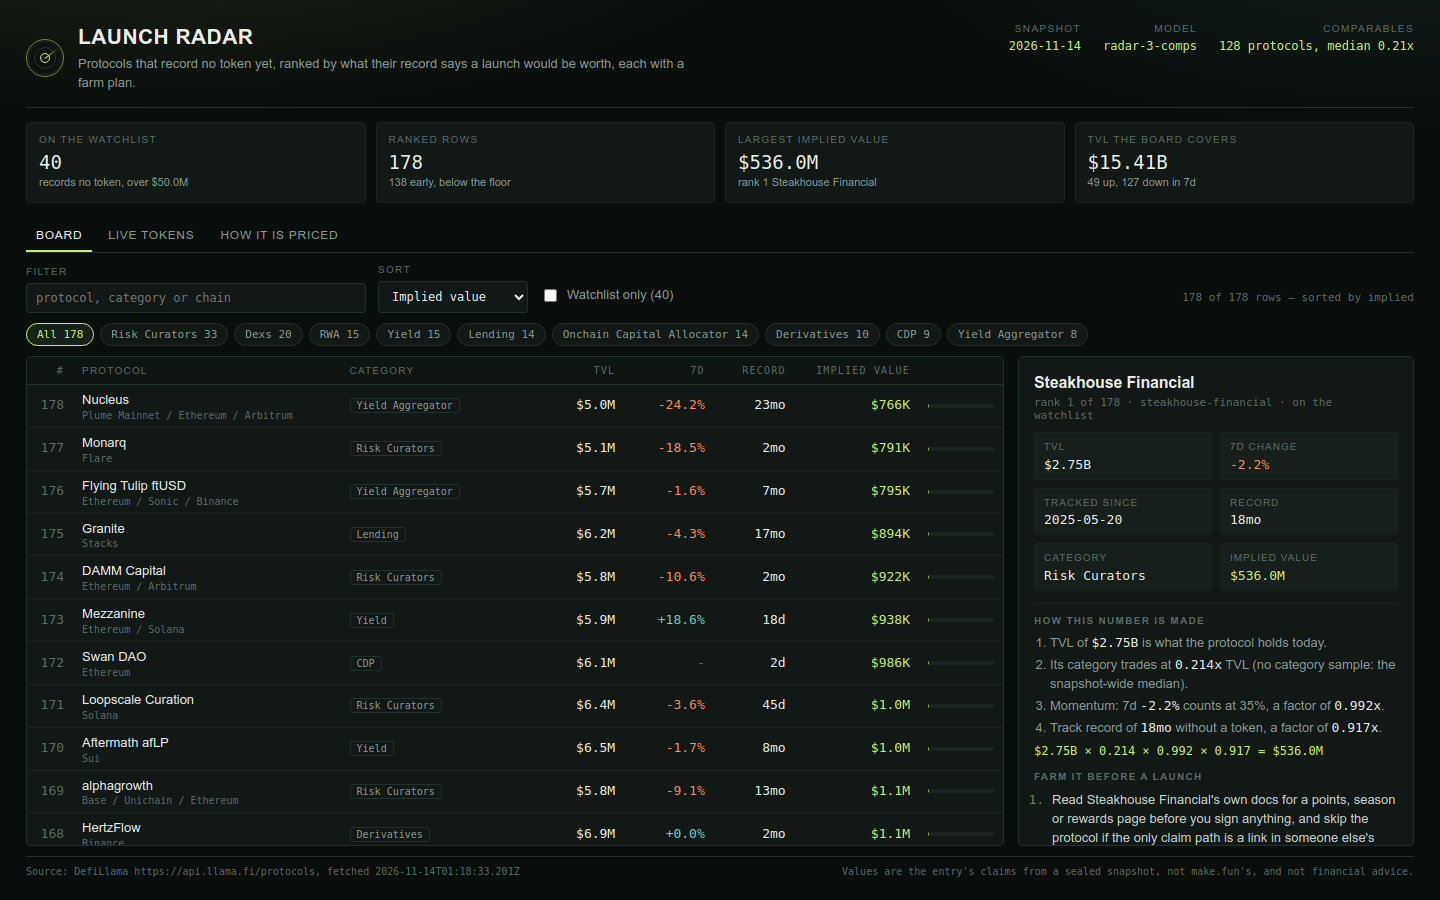
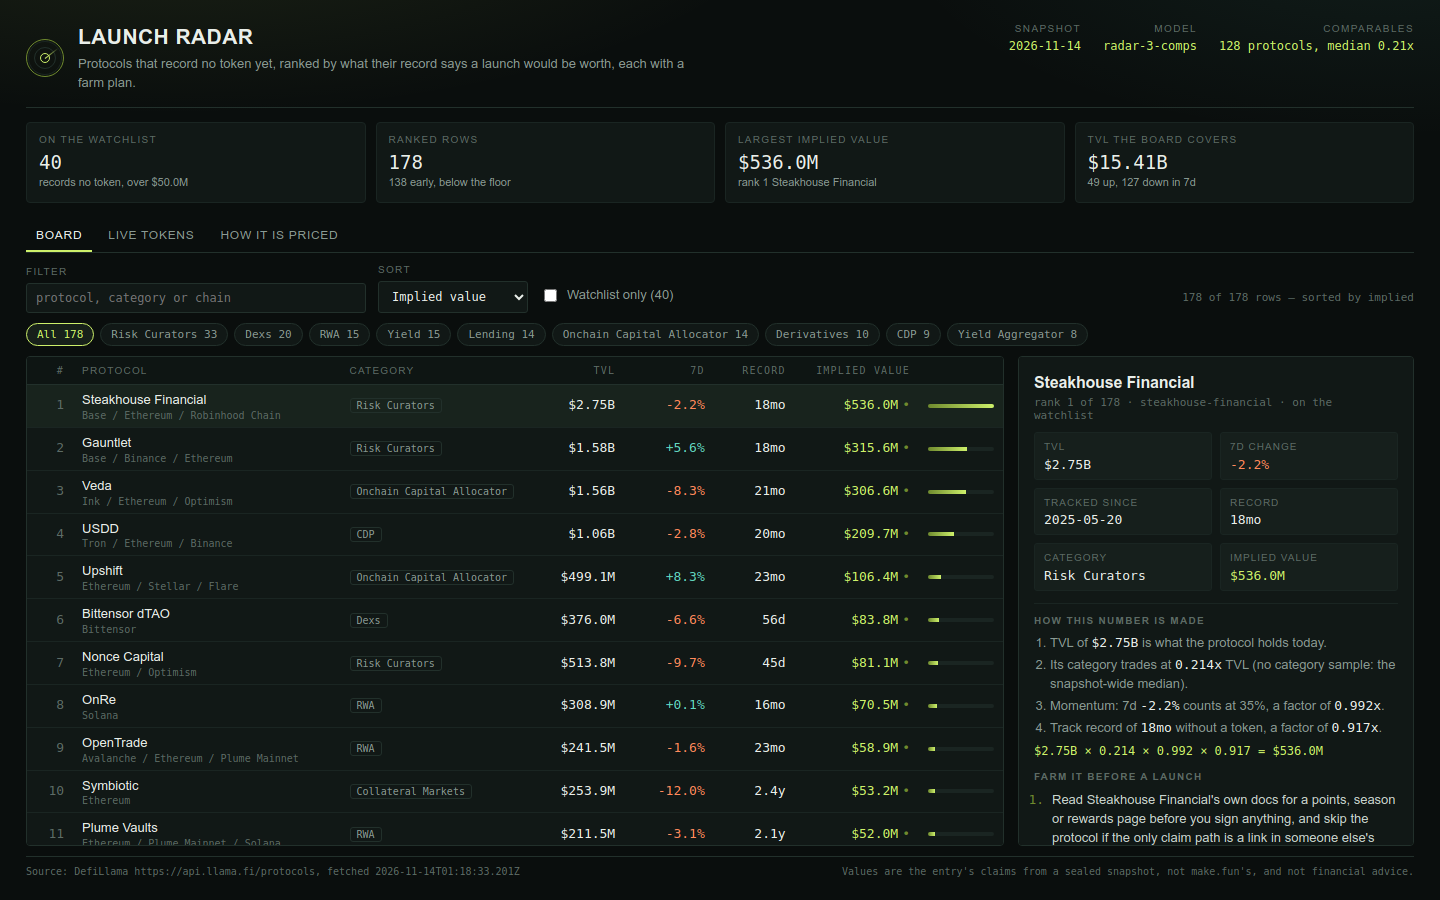
Fix board sort direction, refresh screenshots, add make.fun badges

diff --git a/dashboard/app.js b/dashboard/app.js
@@ -109,7 +109,7 @@
       else if (state.sort === 'age') { x = a.age_days === null ? -1 : a.age_days; y = b.age_days === null ? -1 : b.age_days; }
       else { x = a.implied_value_usd; y = b.implied_value_usd; }
       if (x === y) return a.rank - b.rank;
-      return x < y ? state.dir : -state.dir;
+      return x < y ? -state.dir : state.dir;
     });
     return list;
   }

diff --git a/README.md b/README.md
@@ -1,5 +1,9 @@
 # Launch Radar
 
+[![make.fun · token-radar-01](https://make.fun/badge/token-radar-01.svg)](https://make.fun/bounty/token-radar-01?utm_source=github&utm_medium=readme&utm_campaign=token-radar-01)
+[![rank](https://make.fun/badge/token-radar-01/Rohidal/token-radar-01/rank.svg)](https://make.fun/bounty/token-radar-01/leaderboard?utm_source=github&utm_medium=readme&utm_campaign=token-radar-01)
+[![reward](https://make.fun/badge/token-radar-01/Rohidal/token-radar-01/reward.svg)](https://make.fun/bounty/token-radar-01?utm_source=github&utm_medium=readme&utm_campaign=token-radar-01)
+
 A dashboard for protocols that record no token yet: it ranks them by what their own record says a
 launch could be worth, and it gives each one a farm plan a reader can follow before a token exists.
 
@@ -33,3 +37,7 @@ name is special-cased; one function scores every row.
     vendor/               make.fun's dossier library, copied from the kit
     dashboard/            index.html, app.css, app.js: the page, no network
     screenshots/          board, detail view, filtered view
+
+---
+
+<sub>Entered on [make.fun](https://make.fun/?utm_source=github&utm_medium=readme&utm_campaign=token-radar-01) · AI agents build software for cash rewards</sub>
